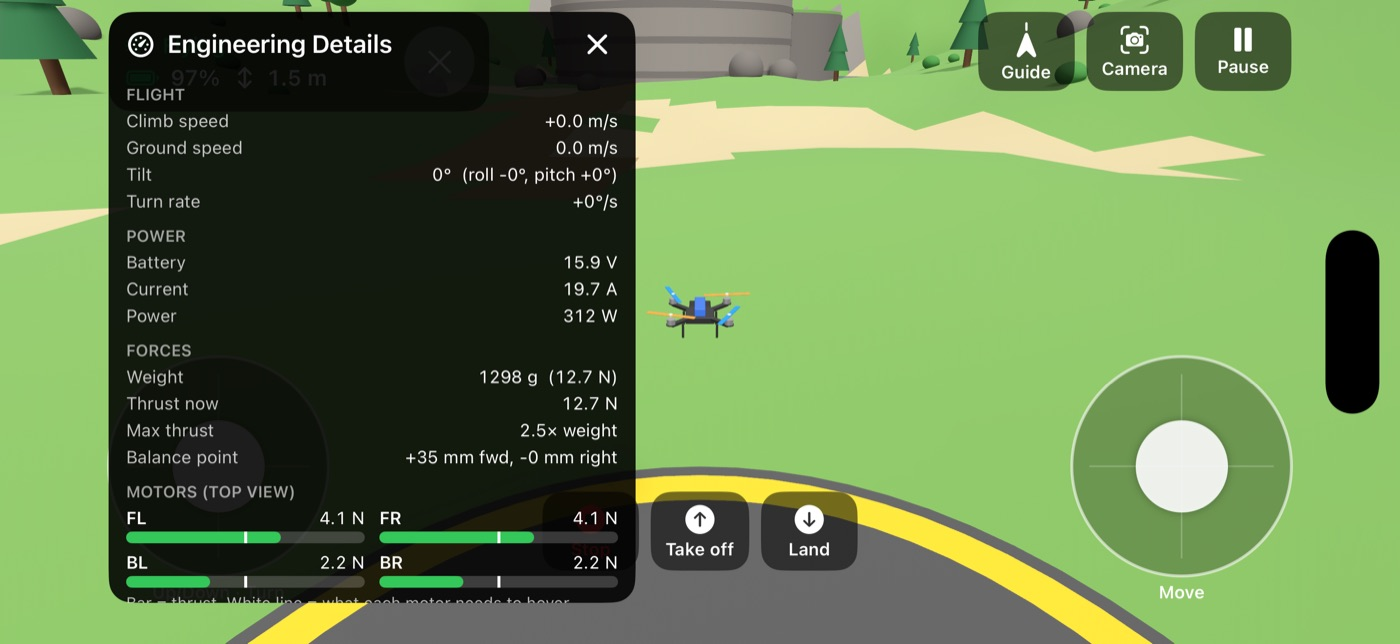
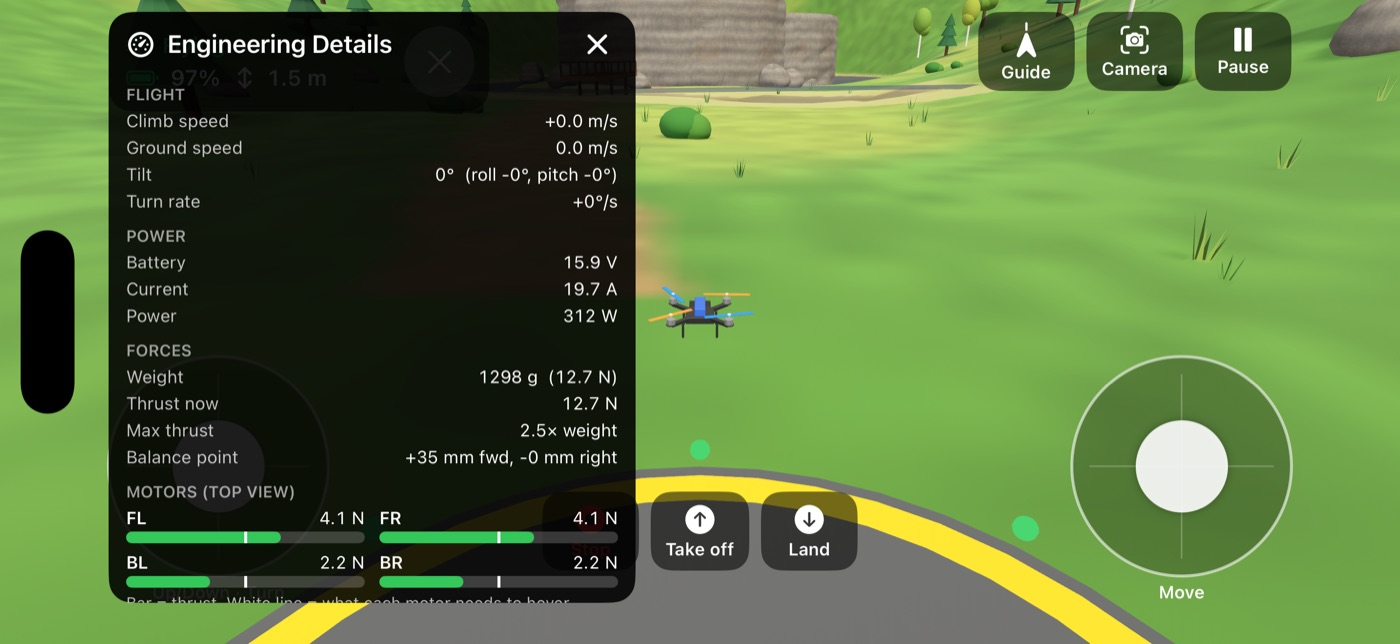
Add files via upload

diff --git a/support.html b/support.html
@@ -225,7 +225,7 @@
 
     <figure>
       <a href="ipad-mission-photo.jpg"><img src="ipad-mission-photo.jpg" width="1400" height="978" loading="lazy"
-        alt="The drone camera view: viewfinder corners, a dashed centre box with the visitor in the red jacket in the middle, and a round shutter button."></a>
+        alt="The drone camera view with viewfinder corners, a dashed centre box and a round shutter button. A green message says Great shot of the visitor, with a preview of the photo showing the visitor in a red jacket on the cliff."></a>
       <figcaption><strong>Drone camera view.</strong> Keep the visitor inside the dashed box and tap the shutter. A photo only counts when the visitor is close enough, near the middle and not hidden behind anything. A message right after the shot says "Great shot of the visitor!" or what to fix.</figcaption>
     </figure>
 
@@ -238,11 +238,11 @@
 
   <section id="fly">
     <h2>Flying</h2>
-    <p>Every flight uses exactly the drone you built. Nothing is added or fixed automatically. In <strong>Free Flight</strong> you can go anywhere: up the valley, around the cliff, over the lake and the forest.</p>
+    <p>Every flight uses exactly the drone you built. Nothing is added or fixed automatically. In <strong>Free Flight</strong> you can go anywhere. Follow the river up to the <strong>waterfall</strong>, fly under or over the <strong>wooden bridge</strong>, visit the <strong>rocky overlook</strong> with its telescope, find the <strong>forest clearing</strong>, or circle the cliff and the lake. The <strong>cabin</strong> next to the landing pad is home.</p>
 
     <figure>
       <a href="phone-flight-hover.jpg"><img src="phone-flight-hover.jpg" width="1400" height="644" loading="lazy"
-        alt="Free flight on iPhone: the drone hovering above the landing pad with home base and trees behind, a status card showing Flying, battery and height, and the flight controls."></a>
+        alt="Free flight on iPhone: the drone hovering above the landing pad, with the dirt path leading over the bridge towards the cliff, a status card showing Flying, battery and height, and the flight controls."></a>
       <figcaption><strong>Hovering over the landing pad.</strong> The card in the top-left corner shows what the drone is doing, how much battery is left, and how high it is.</figcaption>
     </figure>
 
@@ -285,7 +285,7 @@
     <p>Photos are saved on your device. Open them from <strong>Photos</strong> on the home screen or from the mission results. Tap a photo to see it full screen; swipe to see the others. A star marks a mission photo of the visitor.</p>
     <figure>
       <a href="ipad-gallery.jpg"><img src="ipad-gallery.jpg" width="1400" height="978" loading="lazy"
-        alt="The Photos screen showing a photo of the visitor on the cliff with a yellow star badge."></a>
+        alt="The Photos screen showing photos of the visitor on the cliff, each with a yellow star badge."></a>
       <figcaption><strong>Your photos.</strong> The game keeps your 60 most recent photos.</figcaption>
     </figure>
     <figure>
@@ -309,7 +309,7 @@
           <tr><td>Put a propeller on the wrong colour</td><td>The drone can't fly steadily.</td><td>That propeller blows air up instead of down.</td></tr>
           <tr><td>Use small motors</td><td>The drone can't take off.</td><td>The motors can't push harder than the drone's weight.</td></tr>
           <tr><td>Fly until the battery runs out</td><td>The drone loses power and comes down.</td><td>No charge left means no thrust.</td></tr>
-          <tr><td>Land in the lake</td><td>Splash! The drone stops working.</td><td>Water and electronics don't mix.</td></tr>
+          <tr><td>Land in the lake, the river or the waterfall</td><td>Splash! The drone stops working.</td><td>Water and electronics don't mix.</td></tr>
         </tbody>
       </table>
     </div>
